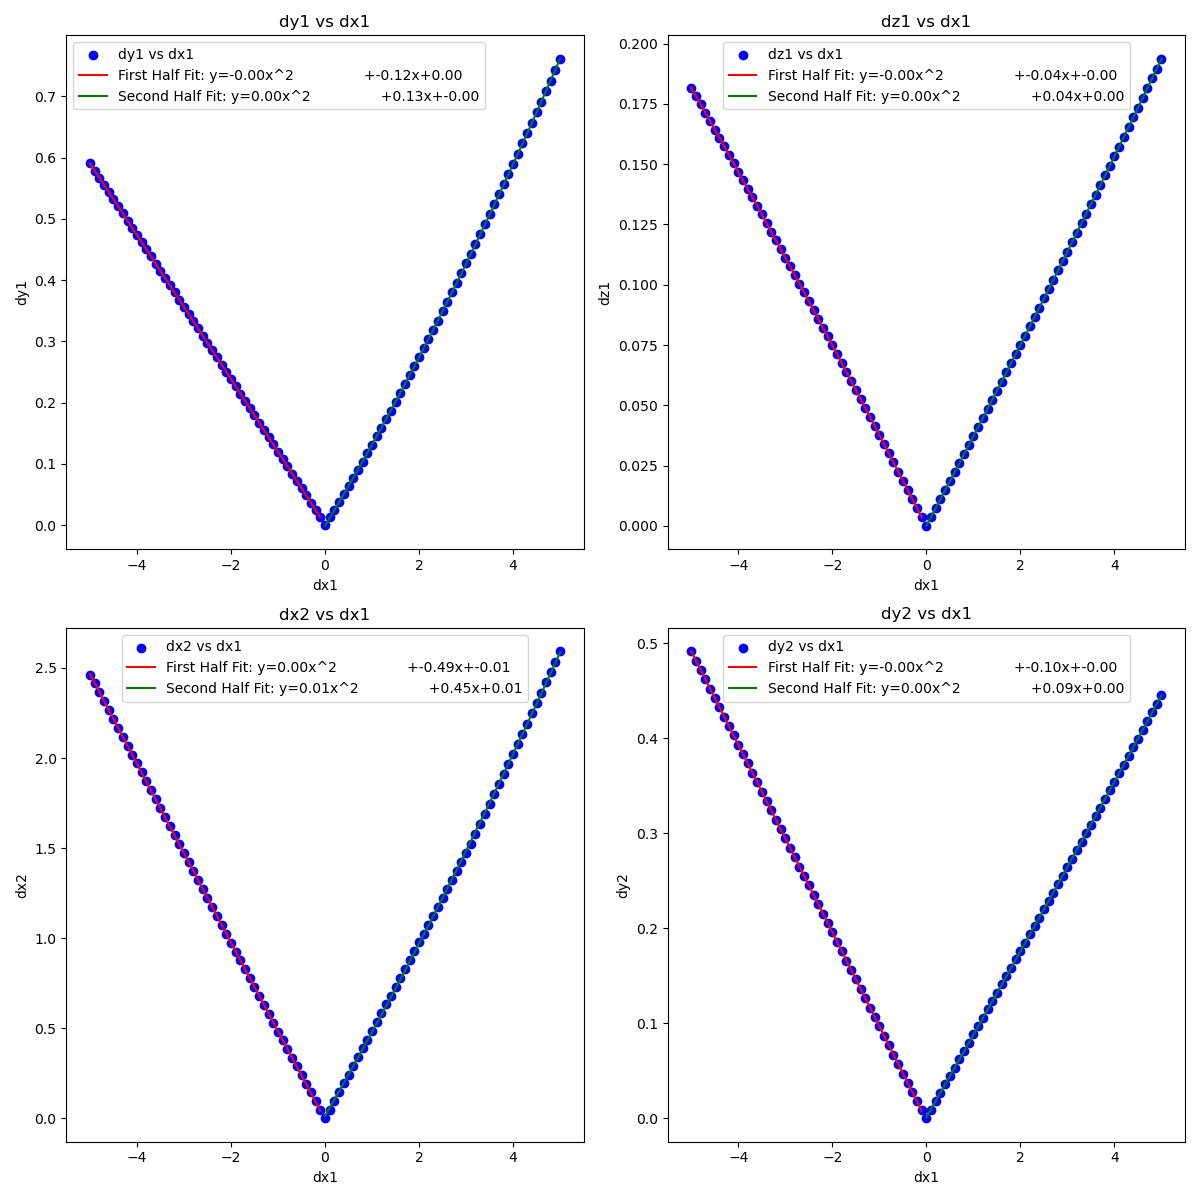
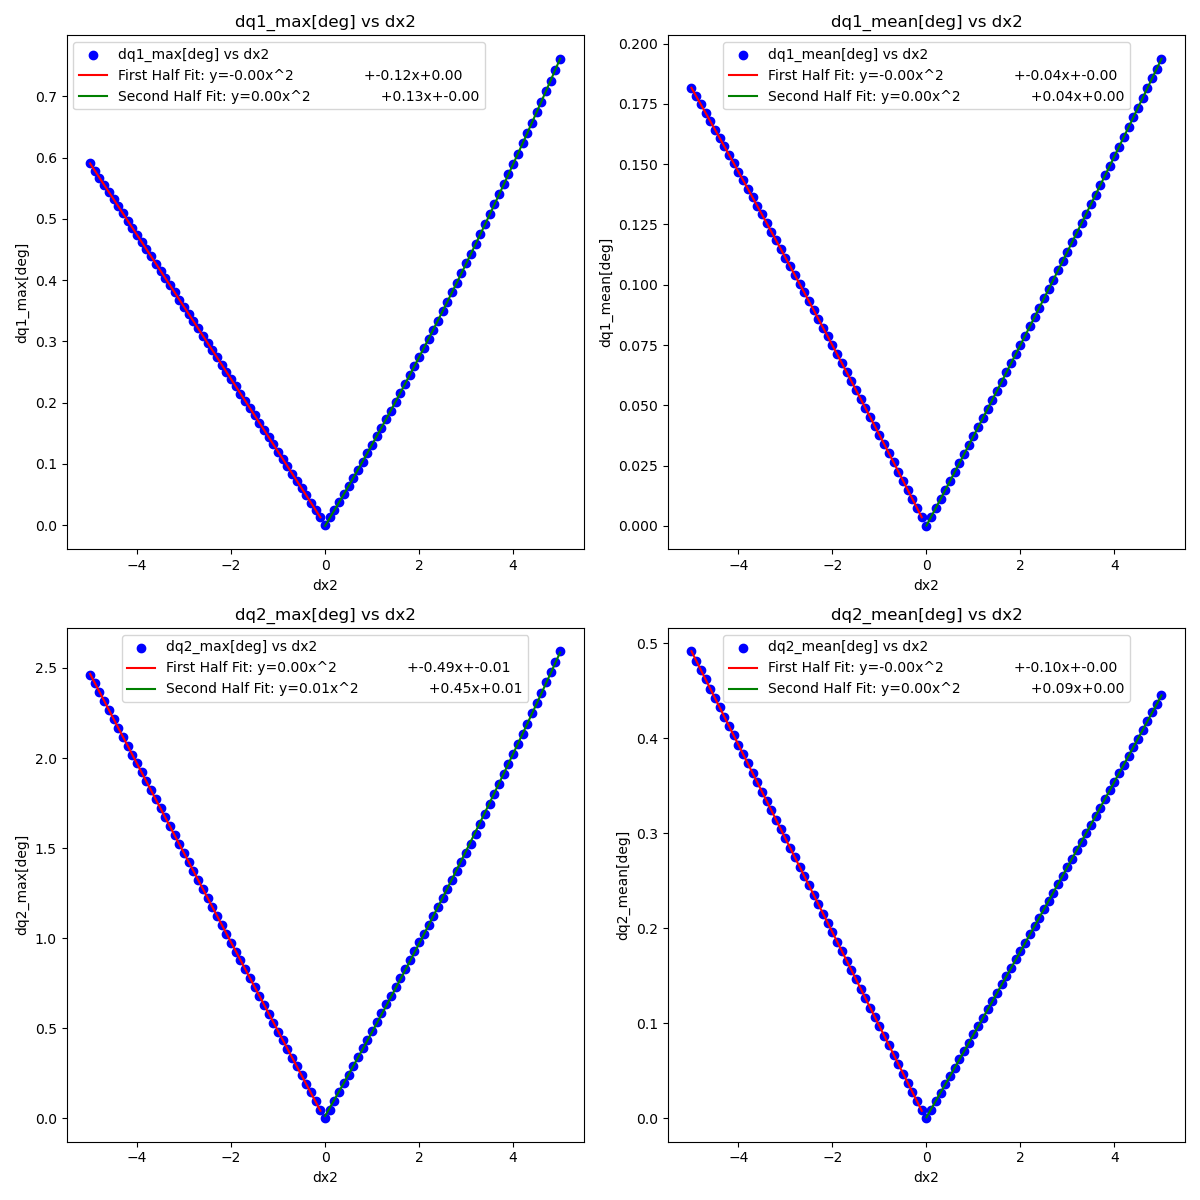
axis labels fixed

diff --git a/Magbot Simulation/plot_csv.py b/Magbot Simulation/plot_csv.py
@@ -20,10 +20,10 @@ def plot_and_regress(csv_file, cx, cy1, cy2, cy3, cy4, save_path):
 
     # subplot for y1 
     plt.subplot(2, 2, 1)
-    plt.scatter(x, y1, color='blue', label=f'{data.columns[1]} vs {data.columns[0]}')
-    plt.xlabel(data.columns[0])
-    plt.ylabel(data.columns[1])
-    plt.title(f'{data.columns[1]} vs {data.columns[0]}')
+    plt.scatter(x, y1, color='blue', label=f'{data.columns[cy1]} vs {data.columns[cx]}')
+    plt.xlabel(data.columns[cx])
+    plt.ylabel(data.columns[cy1])
+    plt.title(f'{data.columns[cy1]} vs {data.columns[cx]}')
 
     # Split the data into first half and second half
     midpoint = len(x) // 2  # Calculate the midpoint to split the data
@@ -52,10 +52,10 @@ def plot_and_regress(csv_file, cx, cy1, cy2, cy3, cy4, save_path):
 
     # subplot for y2 
     plt.subplot(2, 2, 2)
-    plt.scatter(x, y2, color='blue', label=f'{data.columns[2]} vs {data.columns[0]}')
-    plt.xlabel(data.columns[0])
-    plt.ylabel(data.columns[2])
-    plt.title(f'{data.columns[2]} vs {data.columns[0]}')
+    plt.scatter(x, y2, color='blue', label=f'{data.columns[cy2]} vs {data.columns[cx]}')
+    plt.xlabel(data.columns[cx])
+    plt.ylabel(data.columns[cy2])
+    plt.title(f'{data.columns[cy2]} vs {data.columns[cx]}')
 
     # Split the data into first half and second half
     midpoint = len(x) // 2  # Calculate the midpoint to split the data
@@ -83,10 +83,10 @@ def plot_and_regress(csv_file, cx, cy1, cy2, cy3, cy4, save_path):
 
     # subplot for y3 
     plt.subplot(2, 2, 3)
-    plt.scatter(x, y3, color='blue', label=f'{data.columns[3]} vs {data.columns[0]}')
-    plt.xlabel(data.columns[0])
-    plt.ylabel(data.columns[3])
-    plt.title(f'{data.columns[3]} vs {data.columns[0]}')
+    plt.scatter(x, y3, color='blue', label=f'{data.columns[cy3]} vs {data.columns[cx]}')
+    plt.xlabel(data.columns[cx])
+    plt.ylabel(data.columns[cy3])
+    plt.title(f'{data.columns[cy3]} vs {data.columns[cx]}')
 
     # Split the data into first half and second half
     midpoint = len(x) // 2  # Calculate the midpoint to split the data
@@ -114,10 +114,10 @@ def plot_and_regress(csv_file, cx, cy1, cy2, cy3, cy4, save_path):
 
     # subplot for y4
     plt.subplot(2, 2, 4)
-    plt.scatter(x, y4, color='blue', label=f'{data.columns[4]} vs {data.columns[0]}')
-    plt.xlabel(data.columns[0])
-    plt.ylabel(data.columns[4])
-    plt.title(f'{data.columns[4]} vs {data.columns[0]}')
+    plt.scatter(x, y4, color='blue', label=f'{data.columns[cy4]} vs {data.columns[cx]}')
+    plt.xlabel(data.columns[cx])
+    plt.ylabel(data.columns[cy4])
+    plt.title(f'{data.columns[cy4]} vs {data.columns[cx]}')
 
     # Split the data into first half and second half
     midpoint = len(x) // 2  # Calculate the midpoint to split the data

diff --git a/Magbot Simulation/errorTraj.py b/Magbot Simulation/errorTraj.py
@@ -21,11 +21,11 @@ Divergence of the actual positions of the magnets from the designed layout
 u_gen generates coil currents using msr_1, the basline
 The same coil currents are passed through both msr_1 and msr_2
 '''
-print('***********************************************************************************')
+print('*********************************************************************')
 
 # name the csv file and specify the directory
-#user_input_dir = '/mnt/newstorage/summer_project/results'
-user_input_dir = '/home/vincent-gu/summer_project/results'
+user_input_dir = '/mnt/newstorage/summer_project/results'
+#user_input_dir = '/home/vincent-gu/summer_project/results'
 #user_input_file = input('Name the csv file: ')
 user_input_file = 'result.csv'
 file_path = os.path.join(user_input_dir, user_input_file)
@@ -74,7 +74,7 @@ while sure == False:
     input1 = input('Make your selection: ')
 
     print('In which direction(x/y/z)?')
-    input2 = input('Make your selection(x/y/z): ').lower()
+    input2 = input('Make your selection: ').lower()
 
     input3 = input('Are you sure about your choices?(y/n): ').lower()
 
@@ -84,7 +84,7 @@ while sure == False:
         sure = False
 
 #retrieve coil current data
-path = '/home/vincent-gu/summer_project/Magbot Simulation'
+path = '/mnt/newstorage/summer_project/Magbot Simulation'
 data = pd.read_csv(os.path.join(path, 'coil_currents.csv'), header='infer')
 
 # set translation based on user inputs
@@ -150,7 +150,7 @@ for i in tqdm(np.arange(-5, 5.1, 0.1), desc="Process"):
     plt.xlabel('Time (seconds)')
     plt.ylabel('Joint Angles (degrees)')
     plt.legend()
-    directory = '/home/vincent-gu/summer_project/images'
+    directory = '/mnt/newstorage/summer_project/images'
     filename1 = f'q1_dev{str(i)}.png'
     full_path1 = os.path.join(directory, filename1)
     plt.savefig(full_path1)
@@ -172,6 +172,7 @@ for i in tqdm(np.arange(-5, 5.1, 0.1), desc="Process"):
     nf += 2
 
 # plot error vs. std_dev
-save_path = '/home/vincent-gu/summer_project/results/results.png'
+#save_path = '/home/vincent-gu/summer_project/results/results.png'
+save_path = '/mnt/newstorage/summer_project/results/results.png'
 plot_and_regress(file_path, cx, 6, 7, 8, 9, save_path)
 print('*********************************************************************')
